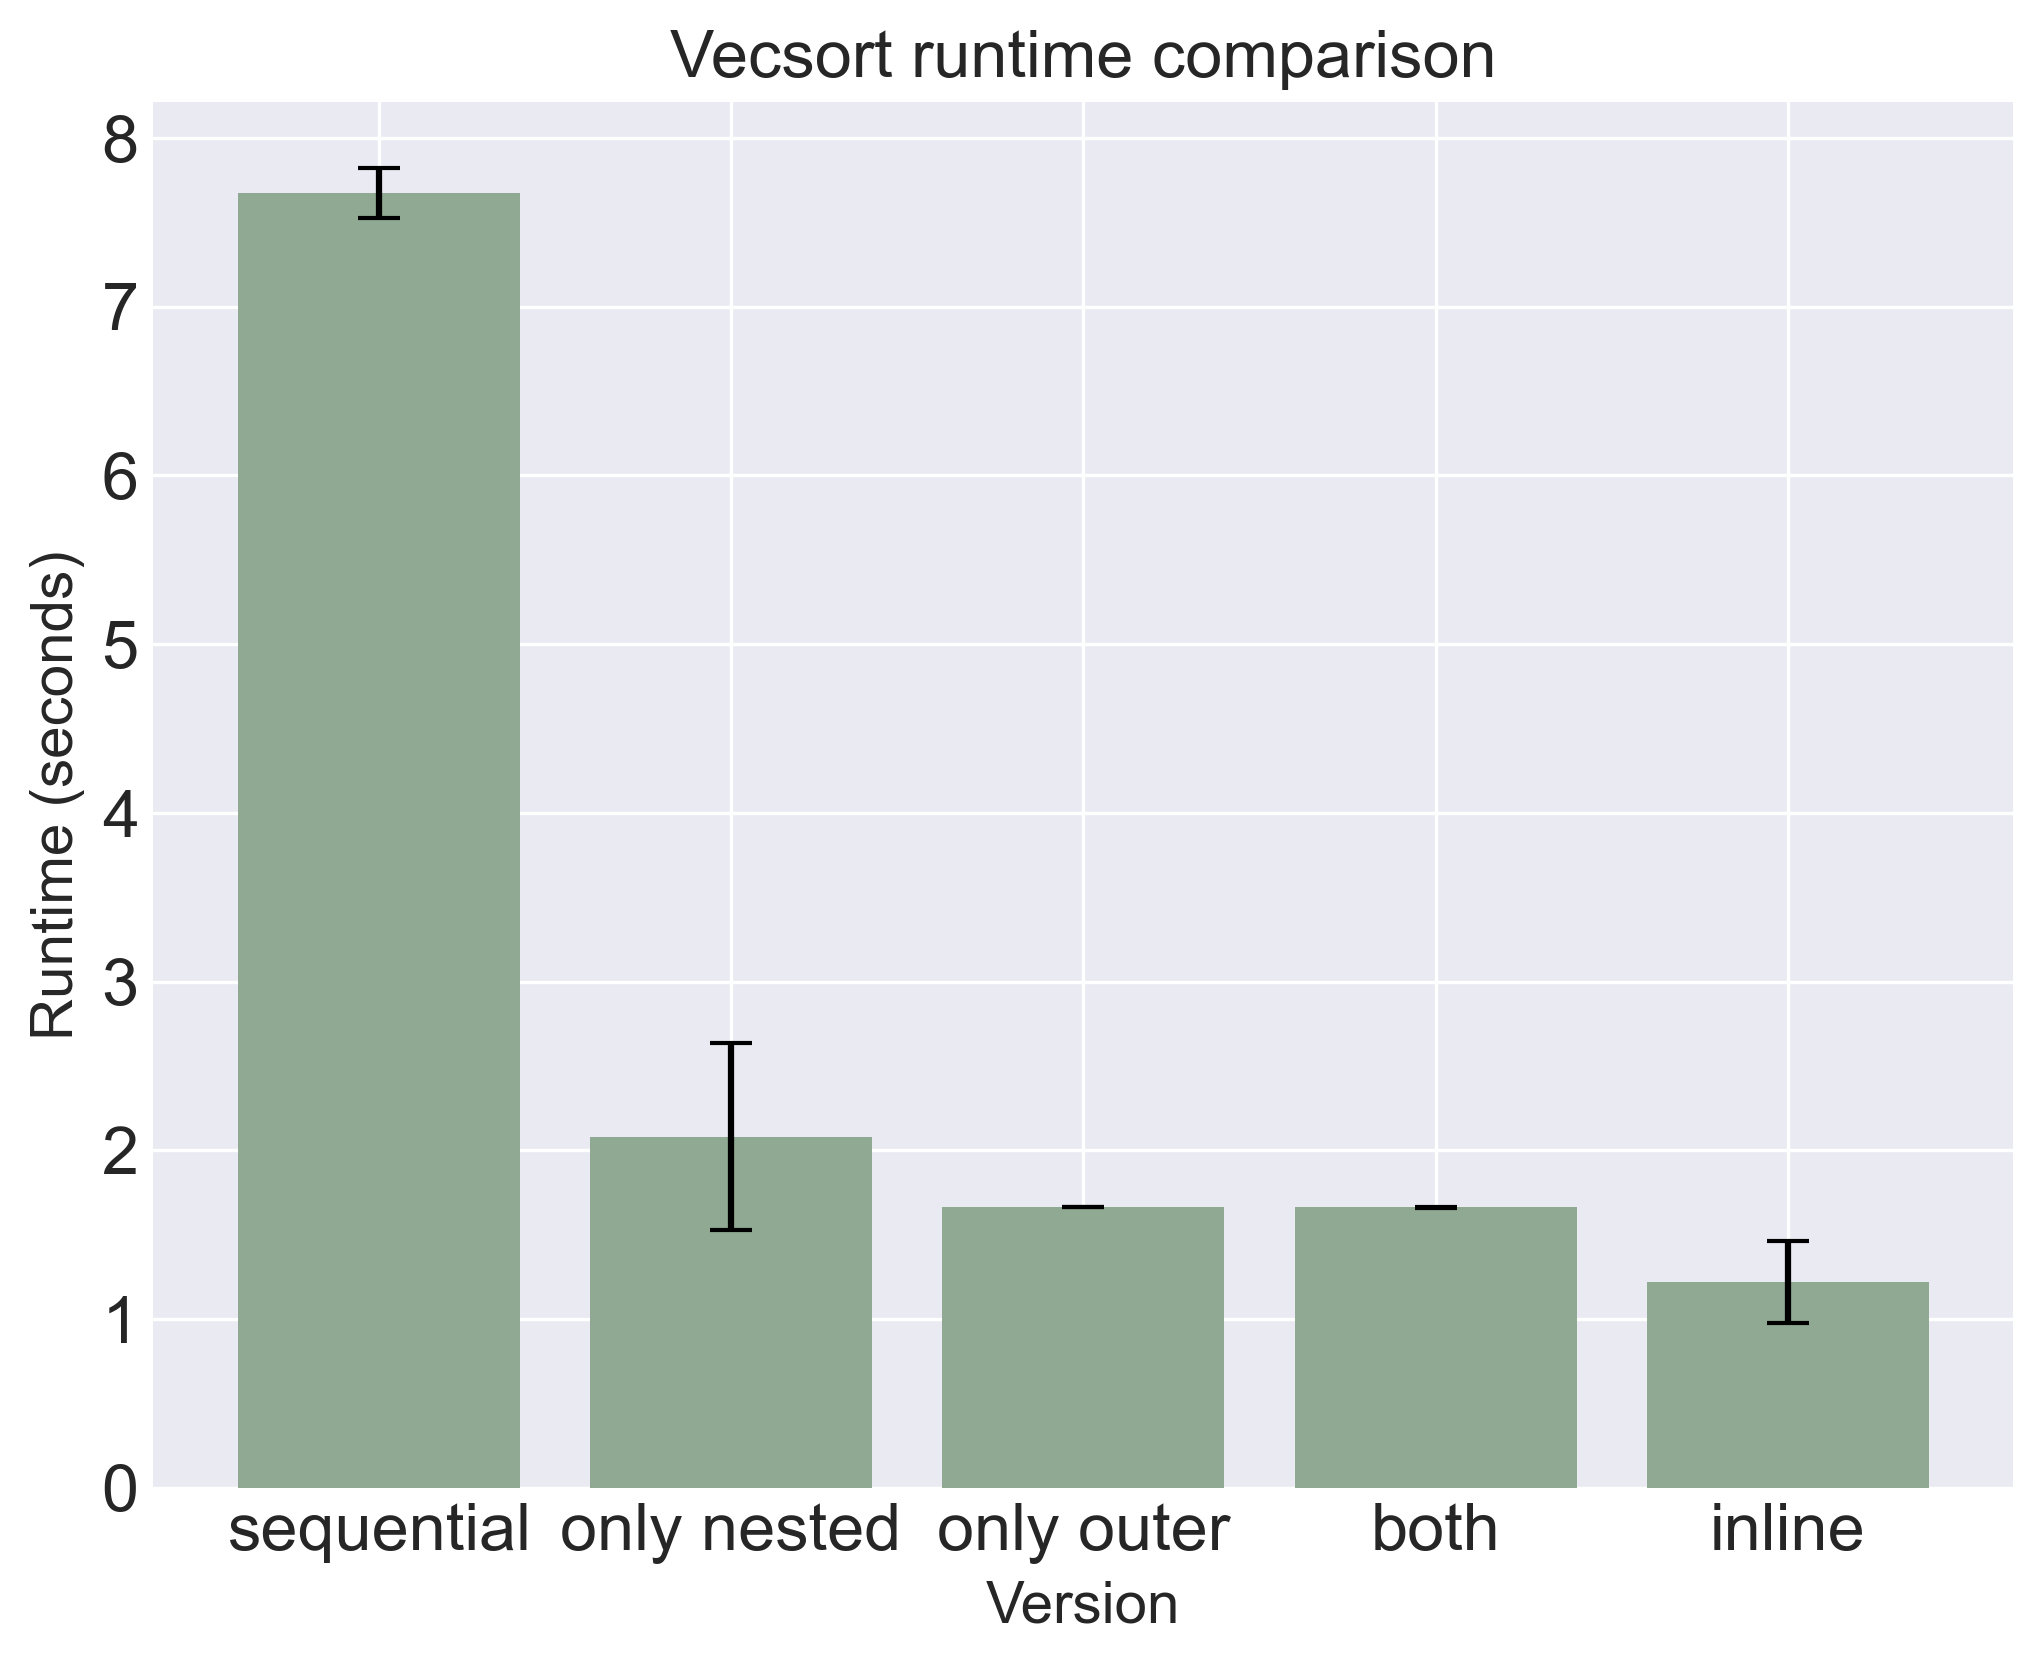
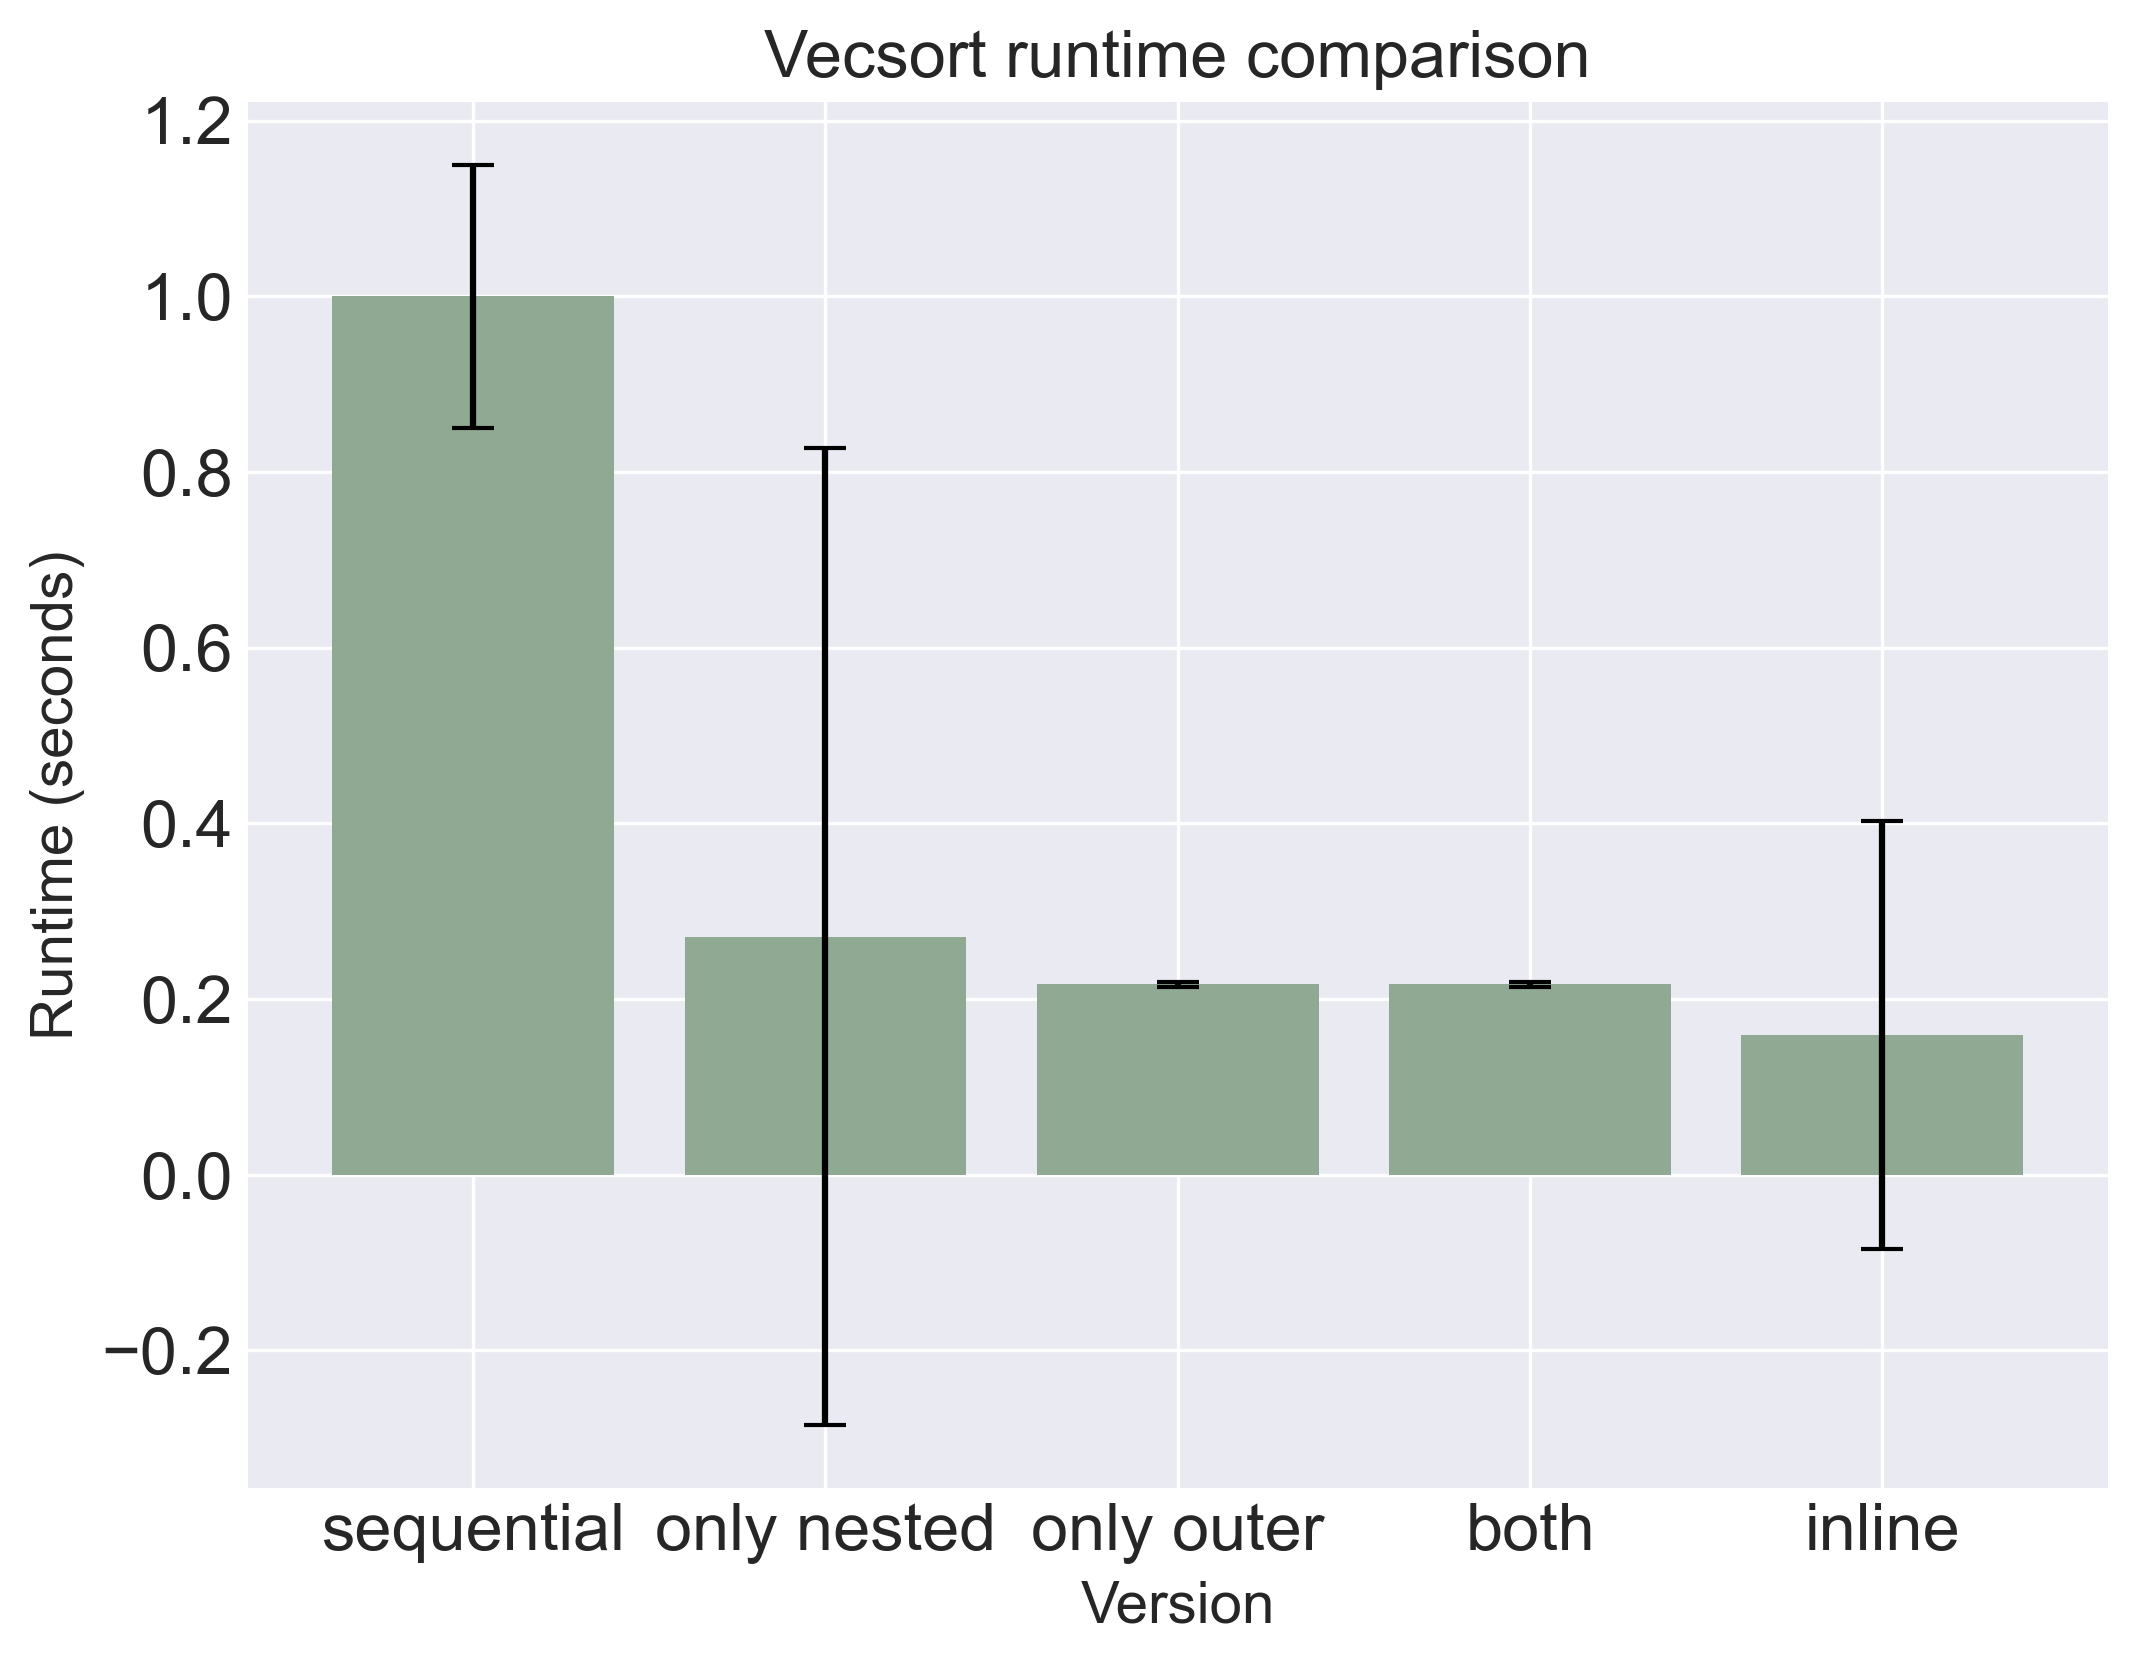
- fixed sequential mergesort: added memcpy

diff --git a/assignment_2/vecsort/parallel_v5_o3/vecsort.c b/assignment_2/vecsort/parallel_v5_o3/vecsort.c
@@ -4,29 +4,45 @@
 #include <getopt.h>
 #include <stdio.h>
 #include <ctype.h>
-#include <assert.h>
 #include <omp.h>
+#include <assert.h>
+#include <limits.h>
 
 /* Ordering of the vector */
 typedef enum Ordering {ASCENDING, DESCENDING, RANDOM} Order;
+//short max_threads = (short) omp_get_max_threads();
+short max_threads = 16;
 
 int debug = 0;
-void vecsort(int **vector_vectors, int *vector_lengths, long length_outer);
-void msort(int *v, long l);
+void vecsort(int **vector_vectors, int *vector_lengths, long length_outer, short outer_threads);
+void msort(int *v, long l, short nest_threads);
 void TopDownSplitMerge(long first, long last, int*v);
 
-void vecsort(int **vector_vectors, int *vector_lengths, long length_outer){
-    long i;
-    #pragma parallel for shared(v) firstprivate(i) numthreads(16)
-    for (i =0; i<length_outer; i++){
-        msort(vector_vectors[i], vector_lengths[i]);
+void vecsort(int **vector_vectors, int *vector_lengths, long length_outer, short outer_threads){
+    int nest_threads = max_threads-outer_threads;
+    if (nest_threads < 0 || outer_threads <0){
+        printf("nested_threads = %d, outer_threads = %d nr threads < 0! Exiting...\n",
+               nest_threads,outer_threads );
+        exit(EXIT_FAILURE);
     }
+    long i;
+#pragma omp parallel for schedule(runtime) shared(vector_vectors) num_threads(outer_threads)
+        for (i=0; i<length_outer; i++)
+        {
+#pragma omp parallel num_threads(nest_threads)
+            {
+#pragma omp single
+                {
+#pragma omp task
+                    TopDownSplitMerge(0, vector_lengths[i], vector_vectors[i]);
+                }
+            }
+        }
 }
 
-void msort(int *v, long l) {
-    TopDownSplitMerge(0, l, v);
-}
+void msort(int *v, long l, short nest_threads) {
 
+}
 
 void TopDownSplitMerge(long first, long last, int *v) {
     if (last - first <= 1) {
@@ -36,19 +52,28 @@ void TopDownSplitMerge(long first, long last, int *v) {
 
     long mid = (last + first) / 2;
 
+#pragma omp task if(last-first > 500)
     TopDownSplitMerge(first, mid, v);
+#pragma omp task if(last-first > 500)
     TopDownSplitMerge(mid, last, v);
-    long i = first;
-    long j = mid;
-    for (long k = first; k < last; k++) {
-        if (i < mid && (j >= last || v[i] <= v[j])) {
-            v[k] = v[i];
-            i++;
-        } else {
-            v[k] = v[j];
-            j++;
+#pragma omp taskwait
+
+#pragma omp task if(last-first > 1000)
+    {
+        long i = first;
+        long j = mid;
+        for (long k = first; k < last; k++) {
+            if (i < mid && (j >= last || v[i] <= v[j])) {
+                v[k] = v[i];
+                i++;
+            } else {
+                v[k] = v[j];
+                j++;
+            }
         }
     }
+
+#pragma omp taskwait
 }
 
 
@@ -76,6 +101,7 @@ int main(int argc, char **argv) {
     Order order = ASCENDING;
     int length_inner_min = 100;
     int length_inner_max = 1000;
+    short outer_threads = 1;
 
     int **vector_vectors;
     int *vector_lengths;
@@ -112,6 +138,9 @@ int main(int argc, char **argv) {
                 break;
             case 'p':
                 num_threads = atoi(optarg);
+                break;
+            case 't':
+                outer_threads = (short) atoi(optarg);
                 break;
             case '?':
                 if (optopt == 'l' || optopt == 's') {
@@ -173,13 +202,14 @@ int main(int argc, char **argv) {
     clock_gettime(CLOCK_MONOTONIC, &before);
 
     /* Sort */
-    vecsort(vector_vectors, vector_lengths, length_outer);
+    vecsort(vector_vectors, vector_lengths, length_outer, outer_threads);
 
     clock_gettime(CLOCK_MONOTONIC, &after);
     double time = (double)(after.tv_sec - before.tv_sec) +
-              (double)(after.tv_nsec - before.tv_nsec) / 1e9;
+                  (double)(after.tv_nsec - before.tv_nsec) / 1e9;
 
     printf("Vecsort took: % .6e \n", time);
+
 
     if(debug) {
         print_v(vector_vectors, vector_lengths, length_outer);

diff --git a/assignment_2/vecsort/compare_speedup.py b/assignment_2/vecsort/compare_speedup.py
@@ -1,0 +1,36 @@
+import numpy as np
+import matplotlib.pyplot as plt
+import pandas as pd
+import matplotlib as mpl
+pd.set_option('display.max_columns', None)
+plt.style.use('seaborn-v0_8-darkgrid')
+mpl.rcParams['font.size'] = 16
+
+df = pd.read_csv("data/final_run.csv").groupby("version").agg(["mean", "sem"])
+print(df)
+df.reset_index(inplace=True)
+df.columns = ['Implementation', 'runtime_mean', 'runtime_sem']
+
+
+names = ["sequential", "only nested", "only outer", "both", "inline"]
+versions = df.index.values
+names = df["Implementation"]
+seq_baseline = df[df["Implementation"]=="sequential"]["runtime_mean"].values[0]
+# seq_baseline_sem = df[df["Implementation"]=="sequential"]["runtime_sem"].values[0]
+
+
+means = seq_baseline/df['runtime_mean'].values
+means = df['runtime_mean'].values
+sems = df['runtime_sem'].values
+
+
+fig, ax = plt.subplots(figsize=(8, 6))
+ax.bar(versions, means, yerr=1.96*sems, capsize=5, color="#8FA993")
+ax.set_xticks(versions, labels=names)
+ax.set_title("Vecsort runtime comparison", fontsize=16)
+ax.set_xlabel("Version", fontsize=14)
+ax.set_ylabel("Runtime (seconds)", fontsize=14)
+
+plt.xticks(rotation=0)
+
+plt.savefig("vecsort_rel.png", dpi=300, bbox_inches="tight")
